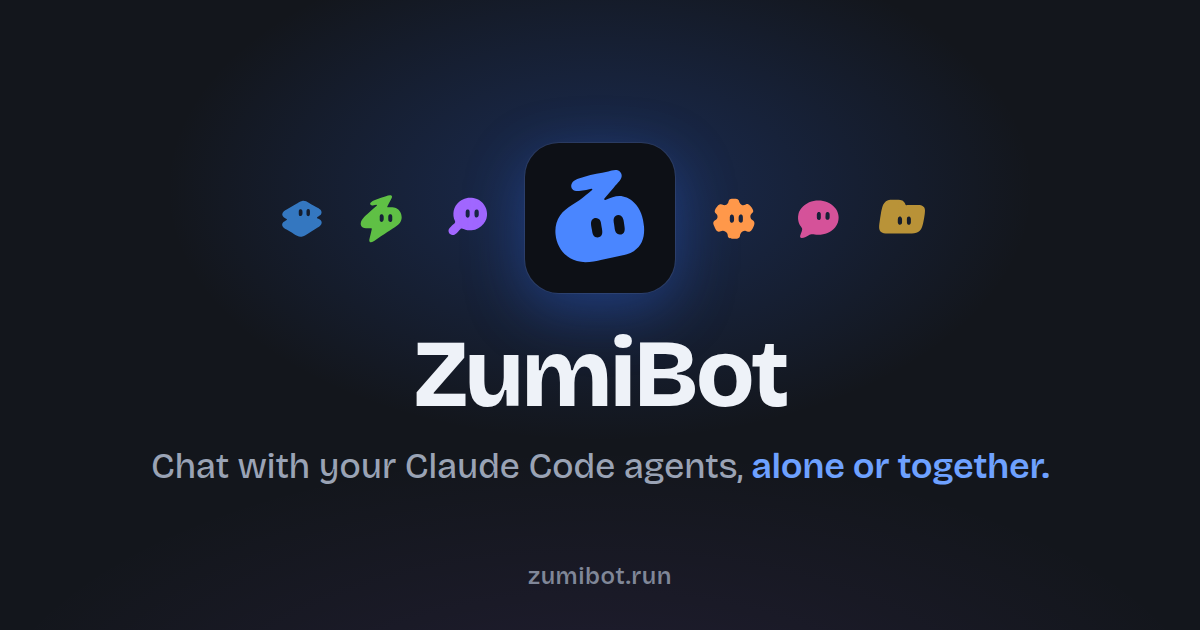
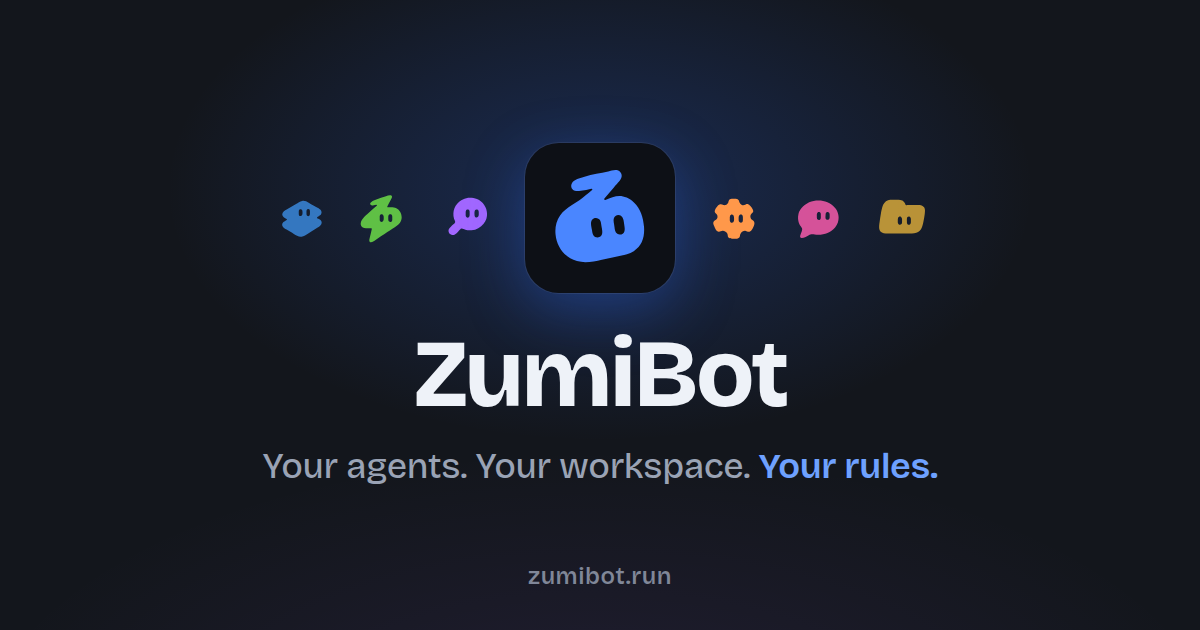
Add docs link preview image via Starlight head tags, render both cards from one script, swap slogan to 'Your agents. Your workspace. Your rules.'

Changed region(s): [[0.1233, 0.7238, 0.8942, 0.7841]]

diff --git a/zumi-bot-docs/tests/socialCard.test.ts b/zumi-bot-docs/tests/socialCard.test.ts
@@ -1,0 +1,34 @@
+import { readFileSync, statSync } from 'node:fs'
+import { join } from 'node:path'
+import { describe, expect, it } from 'vitest'
+import { OG_IMAGE, socialHead } from '../src/lib/socialCard.ts'
+
+const SITE = 'https://docs.zumibot.run'
+const meta = (key: string) => socialHead(SITE).find((t) => t.attrs.property === key || t.attrs.name === key)?.attrs.content
+
+// Starlight writes og:title, og:description, og:url and twitter:card (summary_large_image) itself, but no image.
+describe('social card', () => {
+  it('adds an absolute og:image and twitter:image, with size, type and alt text', () => {
+    expect(meta('og:image')).toBe(`${SITE}/${OG_IMAGE}`)
+    expect(meta('twitter:image')).toBe(`${SITE}/${OG_IMAGE}`)
+    expect(meta('og:image:type')).toBe('image/png')
+    expect(meta('og:image:width')).toBe('1200')
+    expect(meta('og:image:height')).toBe('630')
+    expect(meta('og:image:alt')).toBeTruthy()
+  })
+
+  it('only adds meta tags, never twitter:card or a title Starlight already writes', () => {
+    for (const t of socialHead(SITE)) expect(t.tag).toBe('meta')
+    for (const key of ['twitter:card', 'og:title', 'og:description', 'og:url']) expect(meta(key)).toBeUndefined()
+  })
+
+  it('ships the image as a 1200x630 PNG small enough for every unfurler', () => {
+    const file = join(import.meta.dirname, '..', 'public', OG_IMAGE)
+    const png = readFileSync(file)
+    expect(png.subarray(1, 4).toString('ascii')).toBe('PNG')
+    expect(png.readUInt32BE(16)).toBe(1200)
+    expect(png.readUInt32BE(20)).toBe(630)
+    // X refuses cards over 5 MB; stay far under it.
+    expect(statSync(file).size).toBeLessThan(1024 * 1024)
+  })
+})

diff --git a/zumi-bot-docs/src/lib/socialCard.ts b/zumi-bot-docs/src/lib/socialCard.ts
@@ -1,0 +1,23 @@
+// The link-preview image for every page (Slack, X, iMessage, LinkedIn). Starlight writes the page's own og:title,
+// og:description, og:url and twitter:card itself, but no image, so a pasted link unfurled with an empty picture.
+// The PNG is drawn by `npm run og-image` at the repo root; never edit it by hand.
+export const OG_IMAGE = 'og-image.png'
+
+interface MetaTag {
+  tag: 'meta'
+  attrs: { property?: string; name?: string; content: string }
+}
+
+/** Starlight `head` entries. Crawlers need an absolute image URL, so it is built from the config's `site`. */
+export function socialHead(site: string): MetaTag[] {
+  const image = `${site.replace(/\/$/, '')}/${OG_IMAGE}`
+  const og = (property: string, content: string): MetaTag => ({ tag: 'meta', attrs: { property, content } })
+  return [
+    og('og:image', image),
+    og('og:image:type', 'image/png'),
+    og('og:image:width', '1200'),
+    og('og:image:height', '630'),
+    og('og:image:alt', 'The ZumiBot Docs logo and the slogan: Your agents. Your workspace. Your rules.'),
+    { tag: 'meta', attrs: { name: 'twitter:image', content: image } }
+  ]
+}

diff --git a/zumi-bot-site/index.html b/zumi-bot-site/index.html
@@ -21,7 +21,7 @@
     <meta property="og:image:type" content="image/png" />
     <meta property="og:image:width" content="1200" />
     <meta property="og:image:height" content="630" />
-    <meta property="og:image:alt" content="The ZumiBot logo and the line: Chat with your Claude Code agents, alone or together." />
+    <meta property="og:image:alt" content="The ZumiBot logo and the slogan: Your agents. Your workspace. Your rules." />
     <meta name="twitter:card" content="summary_large_image" />
     <meta name="twitter:image" content="https://zumibot.run/og-image.png" />
     <meta name="theme-color" media="(prefers-color-scheme: light)" content="#ffffff" />

diff --git a/docs/architecture/updates.md b/docs/architecture/updates.md
@@ -184,4 +184,4 @@ With no `GITHUB_TOKEN` the script writes `null`, publishes nothing and exits 0, 
 
 **Icons.** `public/` holds `favicon.png` (64, the app's own), `favicon.ico` (16, 32 and 48 PNG frames, for crawlers and bookmarks that only ask for that path) and `apple-touch-icon.png` (180, a full square with no rounded corners, since iOS rounds it itself and would turn clear corners black). `npm run icons` (`design/zumibot-icon/make-icons.mjs`) renders all three from `zumi-z.svg` with the app's icons; never edit them by hand.
 
-**Link preview.** `index.html` carries Open Graph and `twitter:` tags, so a zumibot.run link pasted in Slack, X, iMessage or LinkedIn unfurls with a picture: crawlers read the served HTML only, never the page's script. `og:image` must be an absolute URL (`https://zumibot.run/og-image.png`), and `og:description` repeats the page's `description` (a site test checks both, and the image's 1200x630 size). `public/og-image.png` is drawn by `npm run og-image` (`design/zumibot-og/make-og.mjs`): the Z on its tile between the demo cast's six shapes, the name and the hero's line, in the dark palette. It renders in headless Chrome through `playwright-core`, since it has text; the layout is centred so a square crop still shows the Z and the name. Re-run it when the Z, the cast, the palette or the line changes; never edit the PNG by hand. Slack caches an unfurl per URL for a while, so a changed card shows only on links it has not seen lately.
+**Link preview.** `index.html` carries Open Graph and `twitter:` tags, so a zumibot.run link pasted in Slack, X, iMessage or LinkedIn unfurls with a picture: crawlers read the served HTML only, never the page's script. `og:image` must be an absolute URL (`https://zumibot.run/og-image.png`), and `og:description` repeats the page's `description` (a site test checks both, and the image's 1200x630 size). `public/og-image.png` is drawn by `npm run og-image` (`design/zumibot-og/make-og.mjs`, which also draws the docs site's card, `zumi-bot-docs/public/og-image.png`, with its own name and host): the Z on its tile between the demo cast's six shapes, the name and the slogan ("Your agents. Your workspace. Your rules."), in the dark palette. It renders in headless Chrome through `playwright-core`, since it has text; the layout is centred so a square crop still shows the Z and the name. Re-run it when the Z, the cast, the palette or the slogan changes; never edit the PNG by hand. Slack caches an unfurl per URL for a while, so a changed card shows only on links it has not seen lately.

diff --git a/docs/architecture/user-docs.md b/docs/architecture/user-docs.md
@@ -7,7 +7,7 @@
 **Where things are.**
 - `src/content/docs/<group>/<page>.md(x)`: one folder per sidebar group. A page's frontmatter has `title`, a one-line `description` (search and link previews) and `sidebar.order` (its place in the group).
 - `src/sidebar.ts`: `SIDEBAR`, the groups in the approved order (the spec's sidebar). `astro.config.mjs` turns each entry into a labeled group that autogenerates from its folder. A group joins `SIDEBAR` when its first page is written; `tests/sidebar.test.ts` checks every group has a page, every folder is listed and the order is the approved one.
-- `src/styles/brand.css`: Starlight's `--sl-color-*` variables set from `zumi-bot-site/src/styles.css` (light and dark), and the font. Keep it in step with the site when the app's palette changes. `src/assets/zumi-z.svg` is the Zumi Z from `botShapes.ts`, drawn as the site draws it; `public/` holds the same three icons as the site's.
+- `src/styles/brand.css`: Starlight's `--sl-color-*` variables set from `zumi-bot-site/src/styles.css` (light and dark), and the font. Keep it in step with the site when the app's palette changes. `src/assets/zumi-z.svg` is the Zumi Z from `botShapes.ts`, drawn as the site draws it; `public/` holds the same three icons as the site's. It also holds `og-image.png`, the link-preview card every page names (`src/lib/socialCard.ts` adds `og:image`, its size and alt, and `twitter:image` through Starlight's `head`; Starlight writes the title, description, URL and `twitter:card` itself but no image, so a pasted link unfurled in Slack with an empty picture). `npm run og-image` draws it with the site's card (see Link preview in [updates.md](updates.md)); never edit it by hand.
 - `social` in `astro.config.mjs` puts two icons in the header: GitHub (the repo's home page, `https://github.com/MhdAljuboori/ZumiBot`) and email (`mailto:contact@zumibot.run`). The site's header carries the GitHub mark, as a button after the theme button, and its footer the email. No `editLink`: pages never send readers into the source.
 - **Contact.** The FAQ's Contact section and Troubleshooting's last tip give `contact@zumibot.run` and the GitHub repo, asking for the version from **Settings**, **About** and the log.
 
